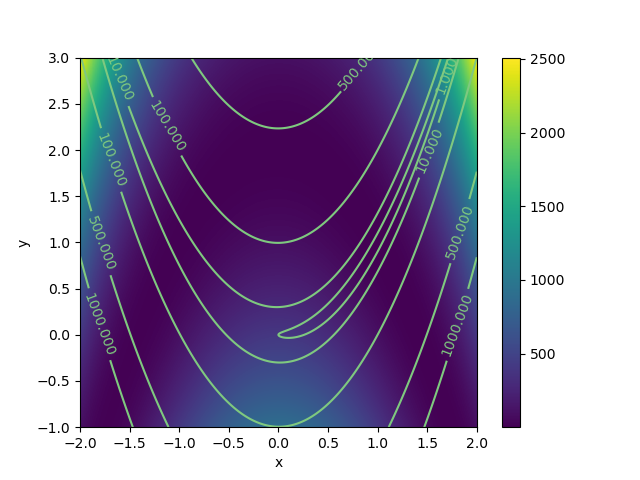
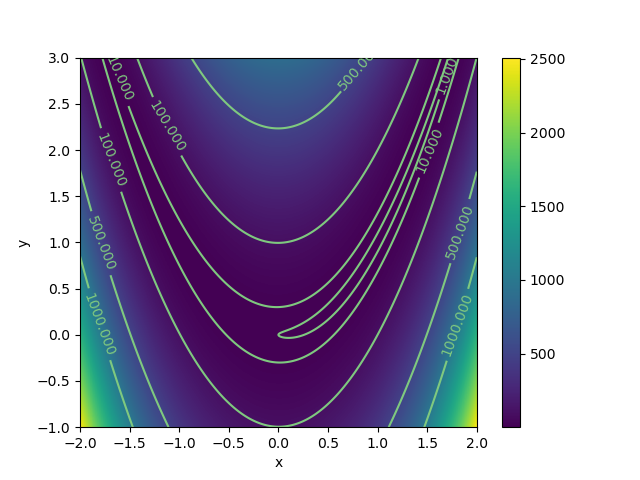
f3-f5 added

Changed region(s): [[0.125, 0.5312, 0.75, 0.9062], [0.125, 0.125, 0.75, 0.4688]]

diff --git a/handin1/code/functions.py b/handin1/code/functions.py
@@ -25,12 +25,12 @@ class Case(ABC):
         X_space, Y_space = np.meshgrid(X,Y)
         return X_space,Y_space,Z, grid
 
-    def plot_contour(self, x_min, x_max, y_min, y_max, file_name, n_ticks= 1000, imshow=False, levels=None):
+    def plot_contour(self, x_min, x_max, y_min, y_max, file_name, n_ticks= 1000, imshow=True, levels=None):
         print("Plotting countour for",type(self).__name__)
         X, Y, Z, grid = self.__gen_data(x_min, x_max, y_min, y_max, n_ticks)
         fig, ax = plt.subplots()
         if imshow:
-            IM = ax.imshow(Z, extent=(x_min, x_max, y_min, y_max), aspect="auto")
+            IM = ax.imshow(Z, extent=(x_min, x_max, y_min, y_max), aspect="auto", origin='lower')
             CS = ax.contour(Z, cmap="Accent", levels=levels, extent=(x_min, x_max, y_min, y_max))
             ax.clabel(CS, inline=1, fontsize=10)
             fig.colorbar(IM)
@@ -134,8 +134,9 @@ class Rosenbrock(Case):
 
 
 class LogEllipsoid(Ellipsoid):
-    def __init(self, eps=10 ** (-16)):
+    def __init__(self, alpha=1000, eps=(10 ** (-16))):
         self.eps = eps
+        self.alpha = alpha
 
     def apply(self, x):
         f1_v = super().apply(x)
@@ -174,8 +175,8 @@ class AttractiveSector1(AttractiveSector):
 
 class AttractiveSector2(AttractiveSector):
     def apply(self, x):
-        h = self.__apply_h(x)
-        h_m = self.__apply_h(-x)
+        h = self.apply_h(x)
+        h_m = self.apply_h(-x)
         return np.sum(h**2 + 100 * h_m**2, axis=1)
 
     def derivative(self, x):
@@ -185,28 +186,37 @@ class AttractiveSector2(AttractiveSector):
         raise NotImplementedError("Not implemented yet")
 
 
-
 def main():
     ell = Ellipsoid()
     ell.plot_surface(-100, 100, -10, 10, "plt11.png")
-    ell.plot_contour(-100, 100, -10, 10, "plt12.png", imshow=True,
+    ell.plot_contour(-100, 100, -10, 10, "plt12.png",
                      levels=[0.1, 1, 10, 100, 1000, 10000, 25000, 50000, 100000])
 
     rose = Rosenbrock()
     rose.plot_surface(-2, 2, -1, 3, "plt21.png")
-    rose.plot_contour(-2, 2, -1, 3, "plt22.png", imshow=True,
+    rose.plot_contour(-2, 2, -1, 3, "plt22.png",
                       levels=[1, 10, 100, 500, 1000, 10000, 25000])
 
-
-    # log_ell = LogEllipsoid()
-    # print(log_ell.derivative(np.array([[1,2], [3,4], [5,6]])))
-    # log_ell.plot_surface(-100, 100, -10, 10, 1000)
-    # log_ell.plot_contour(-100, 100, -10, 10, 1000)
+    log_ell = LogEllipsoid()
+    log_ell.plot_surface(-100, 100, -10, 10, "plt31.png")
+    log_ell.plot_contour(-100, 100, -10, 10, "plt32.png",
+                         levels=10)
 
     # att_sec1 = AttractiveSector1()
-    # att_sec1.plot_contour(-5, 5, -5, 5, imshow=False)
-    # att_sec1.plot_surface(-100, 100, -100, 100)
-    # att_sec1.plot_contour_3d(-100, 100, -100, 100)
+    # att_sec1.plot_surface(-50, 50, -50, 50, "plt41.png")
+    # att_sec1.plot_contour(-50, 50, -50, 50, "plt42.png")
+
+    # att_sec2 = AttractiveSector2()
+    # att_sec2.plot_surface(-50, 50, -50, 50, "plt51.png")
+    # att_sec2.plot_contour(-50, 50, -50, 50, "plt52.png")
+    att_sec1 = AttractiveSector1()
+    att_sec1.plot_surface(-5, 5, -5, 5, "plt41.png")
+    att_sec1.plot_contour(-5, 5, -5, 5, "plt42.png")
+
+    att_sec2 = AttractiveSector2()
+    att_sec2.plot_surface(-5, 5, -5, 5, "plt51.png")
+    att_sec2.plot_contour(-5, 5, -5, 5, "plt52.png")
+
 
 if __name__ == "__main__":
     main()

diff --git a/handin1/report.tex b/handin1/report.tex
@@ -164,6 +164,7 @@ The plots for the function can be seen on Figure \ref{plt2}.
   \caption{Rosenbrock Function}
   \label{plt2}
 \end{figure}
+
 \subsection{First Derivative}
 I find the gradient by applying the chain rule:
 \[
@@ -223,11 +224,82 @@ $H(1,1)$ is positive definite, and $(1,1)^T$ is the only local minimizer of the
 
 \section{Log-Ellipsoid Function}
 \label{sec:log-ellipsoid}
+The Log-Ellipsoid function is given by:
+\[
+f_{3}(x)=\log \left(\epsilon+f_{1}(x)\right), \epsilon=10^{-16}
+\]
+The plots for the function can be seen on Figure \ref{plt3}.
+
+\begin{figure}[H]
+  \centering
+  \begin{subfigure}[b]{0.49\textwidth}
+    \centering
+    \includegraphics[width=\textwidth]{imgs/plt31}
+    \caption{Surface plot}
+  \end{subfigure}
+  \begin{subfigure}[b]{0.49\textwidth}
+    \centering
+    \includegraphics[width=\textwidth]{imgs/plt32}
+    \caption{Contour plot}
+  \end{subfigure}
+  \caption{Log-Ellipsoid Function}
+  \label{plt3}
+\end{figure}
 
 \section{Attractive Sector Functions}
 \label{sec:attractive}
+\subsection{First function}
+The first Attractive Sector function is given by:
+\[
+f_{4}(x)=\sum_{i=1}^{d} h\left(x_{i}\right)+100 \cdot h\left(-x_{i}\right)
+\]
+where:
+\[
+h(x)=\frac{\log (1+\exp (q \cdot x))}{q}, q=10^{8}
+\]
+The plots for the function can be seen on Figure \ref{plt4}.
+\begin{figure}[H]
+  \centering
+  \begin{subfigure}[b]{0.49\textwidth}
+    \centering
+    \includegraphics[width=\textwidth]{imgs/plt41}
+    \caption{Surface plot}
+  \end{subfigure}
+  \begin{subfigure}[b]{0.49\textwidth}
+    \centering
+    \includegraphics[width=\textwidth]{imgs/plt42}
+    \caption{Contour plot}
+  \end{subfigure}
+  \caption{First Attractive Sector Function}
+  \label{plt4}
+\end{figure}
+
+\subsection{Second function}
+The second Attractive Sector function is then given by:
+\[
+f_{4}(x)=\sum_{i=1}^{d} h\left(x_{i}\right)+100 \cdot h\left(-x_{i}\right)
+\]
+where $h(x)$ is the same as in the first version.
+The plots for the function can be seen on Figure \ref{plt5}.
+\begin{figure}[H]
+  \centering
+  \begin{subfigure}[b]{0.49\textwidth}
+    \centering
+    \includegraphics[width=\textwidth]{imgs/plt51}
+    \caption{Surface plot}
+  \end{subfigure}
+  \begin{subfigure}[b]{0.49\textwidth}
+    \centering
+    \includegraphics[width=\textwidth]{imgs/plt52}
+    \caption{Contour plot}
+  \end{subfigure}
+  \caption{Second Attractive Sector Function}
+  \label{plt5}
+\end{figure}
 
 \subsection{Overflow in the exponential}
+Computation of h-function can be troublesome, since the exponential function can
+overflow. However this can be mitigated by replacing the function with an equivalent.
 I will prove that following property holds using proof by case:
 \[
 \log (1+\exp (x))=\log (1+\exp (-|x|))+\max (x, 0)
